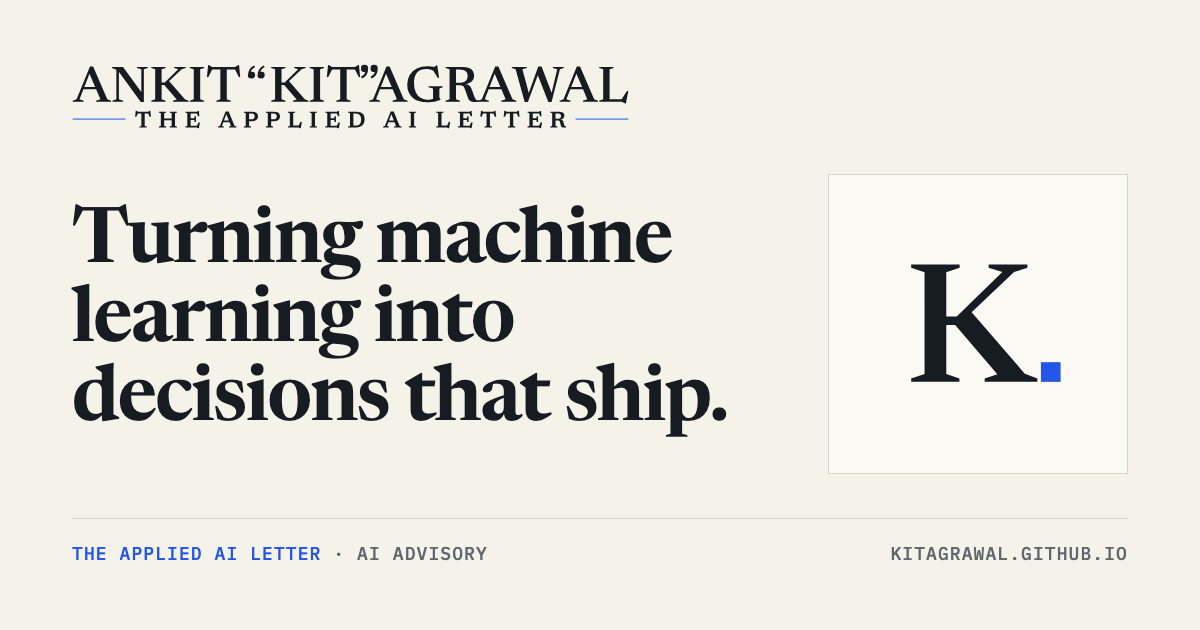
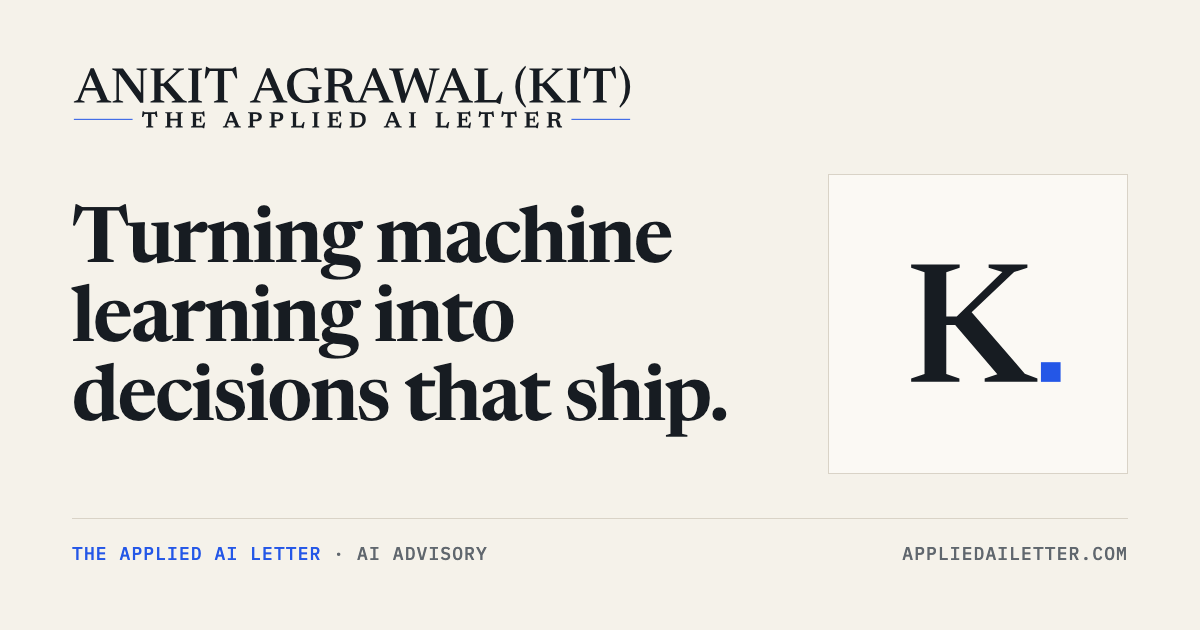
Move every page, sitemap, robots and privacy reference to appliedailetter.com; say Cloudflare hosts the site

Changed region(s): [[0.0617, 0.0905, 0.5242, 0.2111], [0.74, 0.8444, 0.8633, 0.9048], [0.8942, 0.8444, 0.9558, 0.9048]]

diff --git a/public/privacy.html b/public/privacy.html
@@ -6,12 +6,12 @@
 <title>Privacy Policy — The Applied AI Letter</title>
 <meta name="description" content="How The Applied AI Letter collects, uses and protects personal information, and your rights.">
 <link rel="icon" href="favicon.svg" type="image/svg+xml">
-<link rel="canonical" href="https://kitagrawal.github.io/privacy.html">
+<link rel="canonical" href="https://appliedailetter.com/privacy.html">
 <meta property="og:type" content="website">
-<meta property="og:url" content="https://kitagrawal.github.io/privacy.html">
+<meta property="og:url" content="https://appliedailetter.com/privacy.html">
 <meta property="og:title" content="Privacy Policy — The Applied AI Letter">
 <meta property="og:description" content="How The Applied AI Letter collects, uses and protects personal information, and your rights.">
-<meta property="og:image" content="https://kitagrawal.github.io/og-image.png">
+<meta property="og:image" content="https://appliedailetter.com/og-image.png">
 <meta name="twitter:card" content="summary_large_image">
 <link rel="apple-touch-icon" href="apple-touch-icon.png">
 <script>document.documentElement.classList.add('js')</script>
@@ -41,7 +41,7 @@
     <span class="mono">The Applied AI Letter · Legal</span>
     <h1>Privacy Policy</h1>
     <p class="legal-meta">Effective date: 12 November 2026</p>
-    <p>Ankit Agrawal ("we", "us") operates kitagrawal.github.io and The Applied AI Letter and is responsible for the personal information described in this policy. This policy explains what we collect, why, who processes it and the choices you have. Privacy contact: <a href="mailto:support@appliedailetter.com">support@appliedailetter.com</a>.</p>
+    <p>Ankit Agrawal ("we", "us") operates appliedailetter.com and The Applied AI Letter and is responsible for the personal information described in this policy. This policy explains what we collect, why, who processes it and the choices you have. Privacy contact: <a href="mailto:support@appliedailetter.com">support@appliedailetter.com</a>.</p>
 
     <h2>1. Information collected</h2>
     <p>Depending on how you use the Site, we collect:</p>
@@ -50,7 +50,7 @@
       <li><strong>Consultations:</strong> your name, email address, the time you book and anything you write in the booking form.</li>
       <li><strong>Messages:</strong> the content and contact details of emails you send us.</li>
       <li><strong>Delivery data:</strong> whether a letter bounced or was reported as spam.</li>
-      <li><strong>Technical data:</strong> GitHub Pages and Google Fonts receive your IP address and browser details when you load a page.</li>
+      <li><strong>Technical data:</strong> Cloudflare (which serves the Site and relays unsubscribe requests) and Google Fonts receive your IP address and browser details when you load a page.</li>
     </ul>
     <p>We do not use analytics, advertising cookies or tracking pixels, and we do not track whether you open letters or click links.</p>
 
@@ -66,7 +66,7 @@
       <li><strong>Stripe</strong>: payments, billing and receipts.</li>
       <li><strong>Amazon Web Services</strong> (United States, us-east-2): stores the subscriber list in DynamoDB and sends the Newsletter through Amazon SES. <a href="https://aws.amazon.com/privacy/" target="_blank" rel="noopener">AWS privacy notice</a>.</li>
       <li><strong>Cal.com</strong>: consultation booking. <a href="https://cal.com/privacy" target="_blank" rel="noopener">Cal.com privacy policy</a>.</li>
-      <li><strong>GitHub Pages</strong>: Site hosting. <a href="https://docs.github.com/en/site-policy/privacy-policies/github-general-privacy-statement" target="_blank" rel="noopener">GitHub privacy statement</a>.</li>
+      <li><strong>Cloudflare</strong>: Site hosting, and relaying unsubscribe requests to our backend. <a href="https://www.cloudflare.com/privacypolicy/" target="_blank" rel="noopener">Cloudflare privacy policy</a>.</li>
       <li><strong>Google Fonts</strong>: the Site's fonts. <a href="https://policies.google.com/privacy" target="_blank" rel="noopener">Google privacy policy</a>.</li>
     </ul>
     <p>These providers may process data outside your country, including in the United States. Where the law requires it, transfers rely on safeguards such as the EU Standard Contractual Clauses.</p>

diff --git a/public/terms.html b/public/terms.html
@@ -6,12 +6,12 @@
 <title>Terms &amp; Conditions — The Applied AI Letter</title>
 <meta name="description" content="Terms and conditions for The Applied AI Letter subscription and consultations with Ankit Agrawal (Kit).">
 <link rel="icon" href="favicon.svg" type="image/svg+xml">
-<link rel="canonical" href="https://kitagrawal.github.io/terms.html">
+<link rel="canonical" href="https://appliedailetter.com/terms.html">
 <meta property="og:type" content="website">
-<meta property="og:url" content="https://kitagrawal.github.io/terms.html">
+<meta property="og:url" content="https://appliedailetter.com/terms.html">
 <meta property="og:title" content="Terms &amp; Conditions — The Applied AI Letter">
 <meta property="og:description" content="Terms and conditions for The Applied AI Letter subscription and consultations with Ankit Agrawal (Kit).">
-<meta property="og:image" content="https://kitagrawal.github.io/og-image.png">
+<meta property="og:image" content="https://appliedailetter.com/og-image.png">
 <meta name="twitter:card" content="summary_large_image">
 <link rel="apple-touch-icon" href="apple-touch-icon.png">
 <script>document.documentElement.classList.add('js')</script>
@@ -41,7 +41,7 @@
     <span class="mono">The Applied AI Letter · Legal</span>
     <h1>Terms &amp; Conditions</h1>
     <p class="legal-meta">Effective date: 12 November 2026</p>
-    <p>These Terms &amp; Conditions (the "Terms") govern your use of kitagrawal.github.io (the "Site"), The Applied AI Letter (the "Newsletter") and the consultation services offered by Ankit Agrawal ("we", "us"). By purchasing a subscription, booking a consultation or using the Site, you agree to these Terms and to our <a href="privacy.html">Privacy Policy</a>.</p>
+    <p>These Terms &amp; Conditions (the "Terms") govern your use of appliedailetter.com (the "Site"), The Applied AI Letter (the "Newsletter") and the consultation services offered by Ankit Agrawal ("we", "us"). By purchasing a subscription, booking a consultation or using the Site, you agree to these Terms and to our <a href="privacy.html">Privacy Policy</a>.</p>
 
     <h2>1. Services</h2>
     <p>The Site provides information and commentary about applied artificial intelligence, a paid email newsletter and information about consultations. Content is educational and informational. It is not legal, financial, investment, tax or other regulated professional advice, and you should take your own advice before acting on it. We may change the Newsletter's topics, frequency and features over time.</p>
@@ -64,7 +64,7 @@
     <p>The Site and Newsletter content belong to us or our licensors. Your subscription gives you a personal, non-transferable licence to read the Newsletter. You may share links, quote short extracts with credit, and forward an occasional issue to a colleague. You may not republish or redistribute paid issues, share your subscription, scrape the Site at scale, interfere with its operation, or misrepresent our content. These limits are subject to any exceptions the law allows. We may end a subscription that breaks these Terms.</p>
 
     <h2>7. Third-party services</h2>
-    <p>Payments are processed by Stripe, consultations are scheduled with Cal.com, and the Site is hosted on GitHub Pages. These services have their own terms and policies, and we are not responsible for their independent operation.</p>
+    <p>Payments are processed by Stripe, consultations are scheduled with Cal.com, and the Site is hosted and served by Cloudflare. These services have their own terms and policies, and we are not responsible for their independent operation.</p>
 
     <h2>8. Availability and disclaimers</h2>
     <p>We aim to provide accurate and useful content, but we do not guarantee that the Site or Newsletter will be available without interruption or that all information is complete or current. The Site and Newsletter are provided "as is". Nothing in these Terms excludes warranties or rights that cannot lawfully be excluded.</p>

diff --git a/public/index.html b/public/index.html
@@ -5,13 +5,13 @@
 <meta name="viewport" content="width=device-width, initial-scale=1">
 <title>Ankit Agrawal (Kit) — Data Scientist, AI Mentor & ML Engineer</title>
 <meta name="description" content="Founder building a contact tracing platform in stealth. Data scientist advising on AI strategy, agentic workflows and machine learning for banking and healthcare.">
-<link rel="canonical" href="https://kitagrawal.github.io/">
+<link rel="canonical" href="https://appliedailetter.com/">
 <meta property="og:title" content="Ankit Agrawal (Kit) — Data Scientist & AI Mentor">
 <meta property="og:description" content="ML/DL for banking and healthcare, production AI deployments, and GenAI strategy advisory.">
 <meta property="og:type" content="website">
-<meta property="og:url" content="https://kitagrawal.github.io/">
+<meta property="og:url" content="https://appliedailetter.com/">
 <meta property="og:site_name" content="Ankit Agrawal (Kit)">
-<meta property="og:image" content="https://kitagrawal.github.io/og-image.png">
+<meta property="og:image" content="https://appliedailetter.com/og-image.png">
 <meta property="og:image:width" content="1200">
 <meta property="og:image:height" content="630">
 <meta property="og:image:alt" content="Ankit Agrawal (Kit): Turning machine learning into decisions that ship.">
@@ -26,7 +26,7 @@
 <link rel="stylesheet" href="base.css">
 <link rel="stylesheet" href="index.css">
 <script type="application/ld+json">
-{"@context":"https://schema.org","@type":"Person","name":"Ankit Agrawal","alternateName":"Kit","url":"https://kitagrawal.github.io/","jobTitle":"Founder, Data Scientist, AI Mentor","sameAs":["https://www.linkedin.com/in/peacefulhermit"],"knowsAbout":["Machine learning","Generative AI","Agentic workflows","Credit risk modelling","Healthcare analytics"]}
+{"@context":"https://schema.org","@type":"Person","name":"Ankit Agrawal","alternateName":"Kit","url":"https://appliedailetter.com/","jobTitle":"Founder, Data Scientist, AI Mentor","sameAs":["https://www.linkedin.com/in/peacefulhermit"],"knowsAbout":["Machine learning","Generative AI","Agentic workflows","Credit risk modelling","Healthcare analytics"]}
 </script>
 </head>
 <body>

diff --git a/public/book.html b/public/book.html
@@ -6,12 +6,12 @@
 <title>Book a Consultation — Ankit Agrawal (Kit)</title>
 <meta name="description" content="Book a paid GenAI &amp; Strategy Advisory session with Ankit Agrawal (Kit): where GenAI and agentic workflows create value, what to build first, and how to avoid costly pilots.">
 <link rel="icon" href="favicon.svg" type="image/svg+xml">
-<link rel="canonical" href="https://kitagrawal.github.io/book.html">
+<link rel="canonical" href="https://appliedailetter.com/book.html">
 <meta property="og:type" content="website">
-<meta property="og:url" content="https://kitagrawal.github.io/book.html">
+<meta property="og:url" content="https://appliedailetter.com/book.html">
 <meta property="og:title" content="Book a Consultation — Ankit Agrawal (Kit)">
 <meta property="og:description" content="Book a paid GenAI &amp; Strategy Advisory session with Ankit Agrawal (Kit): where GenAI and agentic workflows create value, what to build first, and how to avoid costly pilots.">
-<meta property="og:image" content="https://kitagrawal.github.io/og-image.png">
+<meta property="og:image" content="https://appliedailetter.com/og-image.png">
 <meta name="twitter:card" content="summary_large_image">
 <link rel="apple-touch-icon" href="apple-touch-icon.png">
 <script>document.documentElement.classList.add('js')</script>

diff --git a/public/consent.html b/public/consent.html
@@ -6,12 +6,12 @@
 <title>Email &amp; Cookie Consent — The Applied AI Letter</title>
 <meta name="description" content="How you choose which emails you receive from The Applied AI Letter, and how the site handles cookies.">
 <link rel="icon" href="favicon.svg" type="image/svg+xml">
-<link rel="canonical" href="https://kitagrawal.github.io/consent.html">
+<link rel="canonical" href="https://appliedailetter.com/consent.html">
 <meta property="og:type" content="website">
-<meta property="og:url" content="https://kitagrawal.github.io/consent.html">
+<meta property="og:url" content="https://appliedailetter.com/consent.html">
 <meta property="og:title" content="Email &amp; Cookie Consent — The Applied AI Letter">
 <meta property="og:description" content="How you choose which emails you receive from The Applied AI Letter, and how the site handles cookies.">
-<meta property="og:image" content="https://kitagrawal.github.io/og-image.png">
+<meta property="og:image" content="https://appliedailetter.com/og-image.png">
 <meta name="twitter:card" content="summary_large_image">
 <link rel="apple-touch-icon" href="apple-touch-icon.png">
 <script>document.documentElement.classList.add('js')</script>

diff --git a/public/contact.html b/public/contact.html
@@ -6,12 +6,12 @@
 <title>Contact &amp; Concerns — The Applied AI Letter</title>
 <meta name="description" content="Contact The Applied AI Letter about billing, privacy requests, corrections and other concerns.">
 <link rel="icon" href="favicon.svg" type="image/svg+xml">
-<link rel="canonical" href="https://kitagrawal.github.io/contact.html">
+<link rel="canonical" href="https://appliedailetter.com/contact.html">
 <meta property="og:type" content="website">
-<meta property="og:url" content="https://kitagrawal.github.io/contact.html">
+<meta property="og:url" content="https://appliedailetter.com/contact.html">
 <meta property="og:title" content="Contact &amp; Concerns — The Applied AI Letter">
 <meta property="og:description" content="Contact The Applied AI Letter about billing, privacy requests, corrections and other concerns.">
-<meta property="og:image" content="https://kitagrawal.github.io/og-image.png">
+<meta property="og:image" content="https://appliedailetter.com/og-image.png">
 <meta name="twitter:card" content="summary_large_image">
 <link rel="apple-touch-icon" href="apple-touch-icon.png">
 <script>document.documentElement.classList.add('js')</script>

diff --git a/public/404.html b/public/404.html
@@ -5,7 +5,7 @@
 <meta name="viewport" content="width=device-width, initial-scale=1">
 <title>Page not found — Ankit Agrawal (Kit)</title>
 <meta name="robots" content="noindex">
-<!-- GitHub Pages serves this file at any missing path, so every URL here is root-absolute. -->
+<!-- Served at any missing path, so every URL here is root-absolute. -->
 <link rel="icon" href="/favicon.svg" type="image/svg+xml">
 <link rel="apple-touch-icon" href="/apple-touch-icon.png">
 <script>document.documentElement.classList.add('js')</script>

diff --git a/tools/og-image/og.html b/tools/og-image/og.html
@@ -13,5 +13,5 @@ h1{grid-column:1;align-self:center;font:600 76px/1.04 'Newsreader',Georgia,serif
 <div class="logo"></div>
 <h1>Turning machine learning into decisions that ship.</h1>
 <div class="mark"></div>
-<div class="foot"><span><b>The Applied AI Letter</b> · AI Advisory</span><span>kitagrawal.github.io</span></div>
+<div class="foot"><span><b>The Applied AI Letter</b> · AI Advisory</span><span>appliedailetter.com</span></div>
 </div></body></html>
